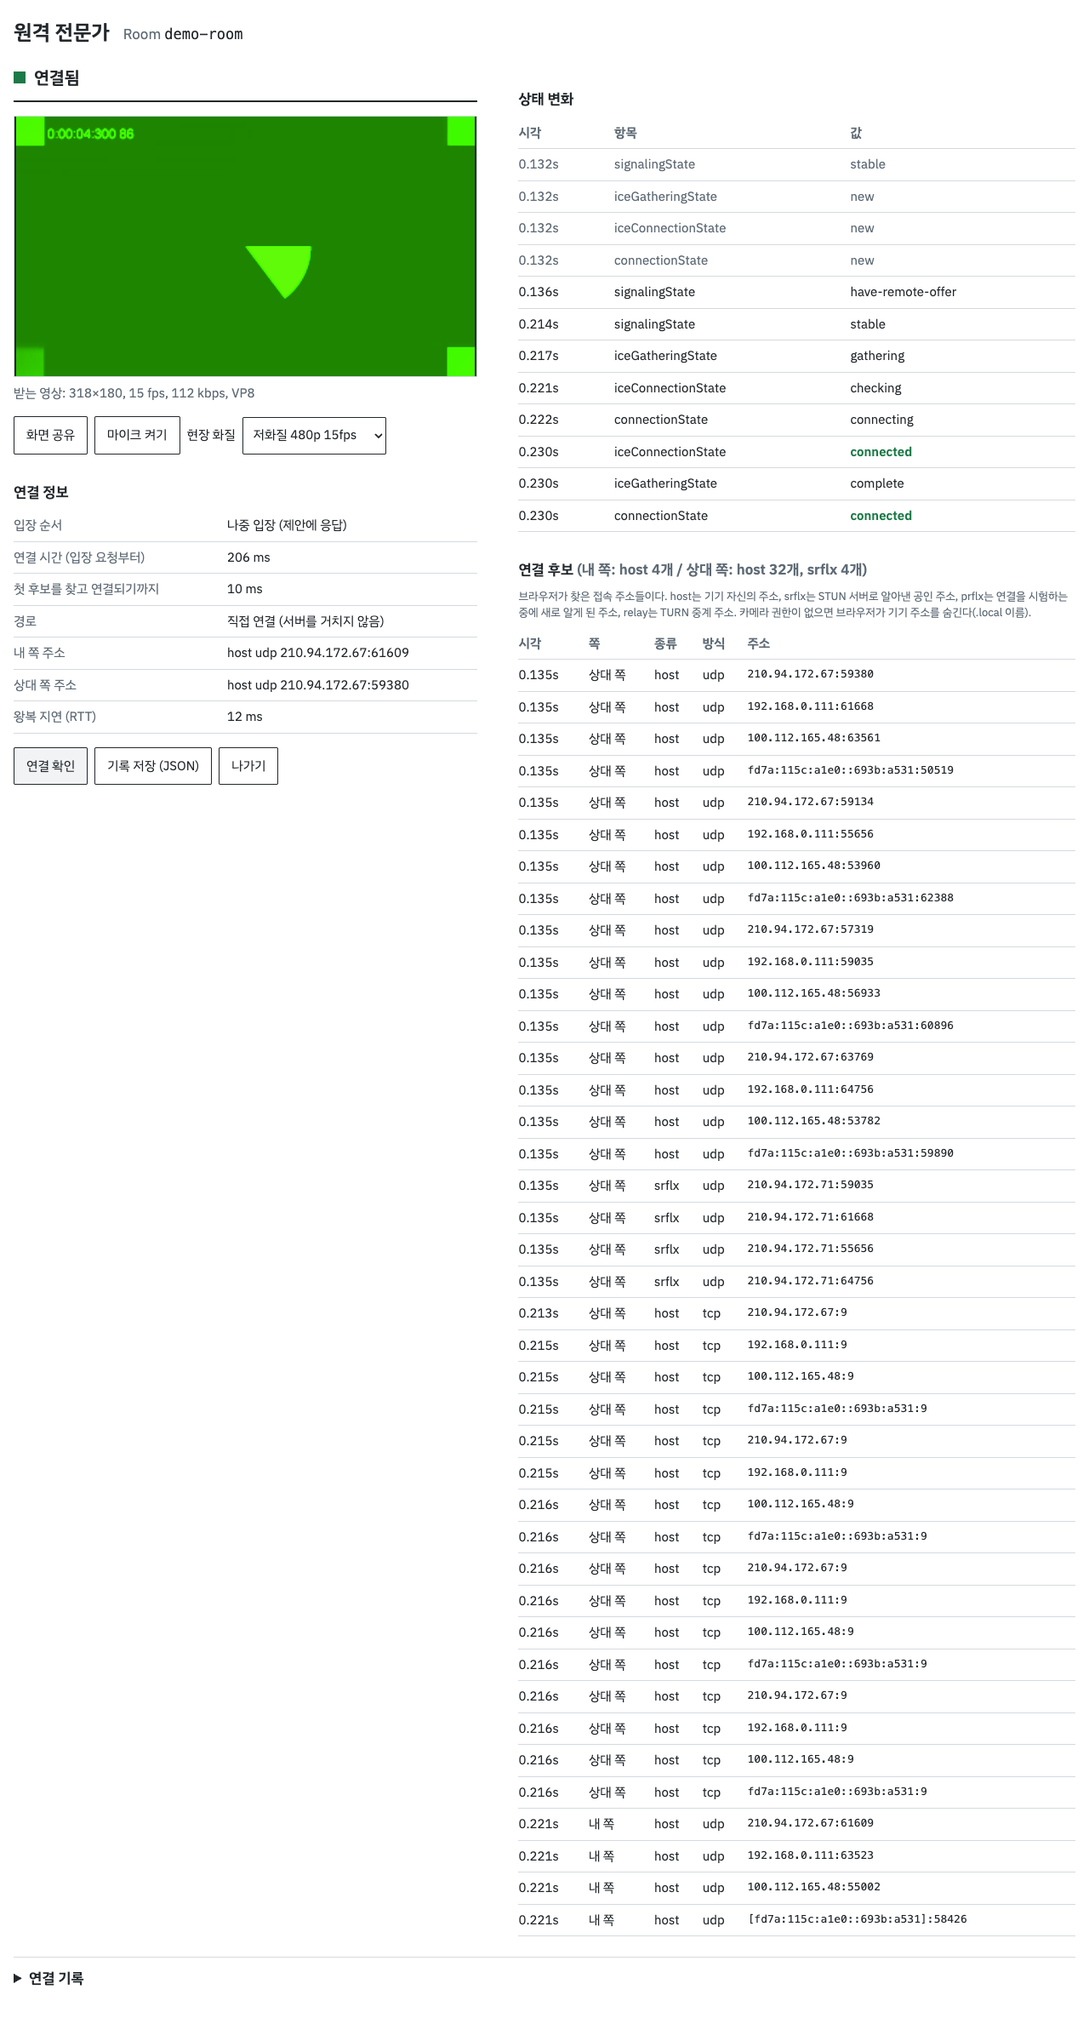
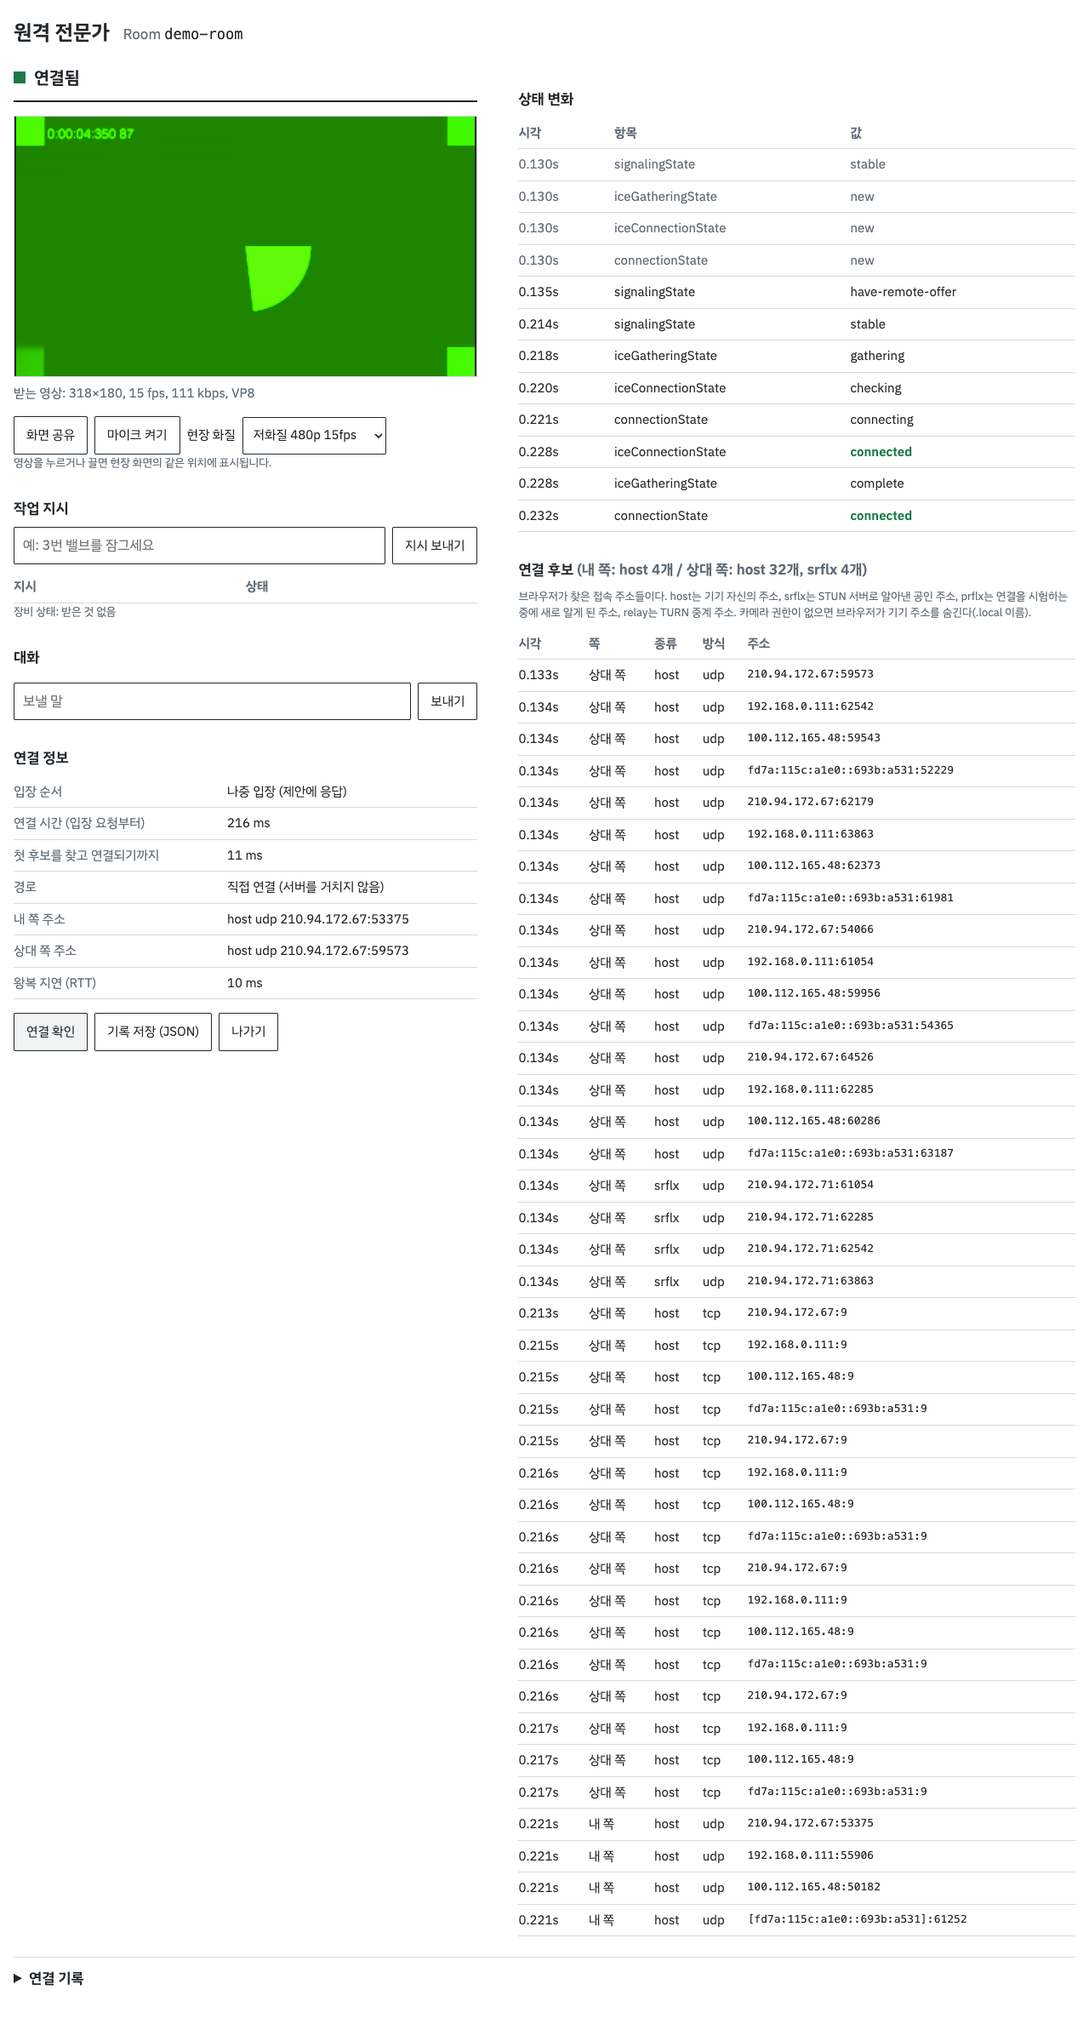
[feat] 대화, 작업 지시, 전문가 > 현장 포인터 표시 (#17)
- 대화: 양쪽 화면에 대화 목록과 입력칸. control 채널 `chat`
- 작업 지시: 전문가가 보내면 현장 '받은 지시'에 표시(확인 전 노란 띠). 현장이 '확인'을 누르면 전문가 표 상태가 '도착 (n ms), 확인 대기'에서 '현장 확인'으로 바뀜
- 포인터: 전문가가 받은 영상을 누르거나 끌면 0~1 좌표를 초당 최대 30번 pointer 채널로 보냄. 현장은 자기 카메라 화면 위 같은 위치에 노란 고리를 띄우고 3초 뒤 흐리게 함
- 좌표는 영상의 빈 띠(object-fit: contain)를 뺀 실제 영상 영역 기준. 전면 카메라 거울 미리보기는 x를 뒤집음
- 장비 상태: 현장 '장비 상태 보내기'(PUMP-03 더미 값) > 전문가 화면 한 줄 표시
- 화면 캡처 2장 추가(`docs/screens/field-instructions.png`, `expert-instructions.png`)

diff --git a/client/js/ui.js b/client/js/ui.js
@@ -32,6 +32,13 @@ export function createUi({ role, room }) {
     <h2>연결 후보 <span class="muted" id="candSummary"></span></h2>
     <p class="muted small">${TERMS}</p>
     <table id="cands"><thead><tr><th>시각</th><th>쪽</th><th>종류</th><th>방식</th><th>주소</th></tr></thead><tbody></tbody></table>`;
+  const chatBlock = `
+    <h2>대화</h2>
+    <ol class="chat" id="chat" aria-live="polite"></ol>
+    <form class="send" id="chatForm">
+      <input id="chatText" maxlength="500" autocomplete="off" aria-label="보낼 말" placeholder="보낼 말">
+      <button type="submit">보내기</button>
+    </form>`;
   const logBlock = `<details id="logBox"><summary>연결 기록</summary><ol id="log" class="log"></ol></details>`;
 
   // 영상 무대: 큰 화면 하나와 오른쪽 아래 작은 화면 하나
@@ -42,6 +49,7 @@ export function createUi({ role, room }) {
       <video id="vMain" playsinline autoplay muted></video>
       <video id="vPip" class="pip" playsinline autoplay muted hidden></video>
       <p class="stage-note" id="stageNote"></p>
+      <span class="pointer" id="ptr" hidden></span>
     </div>
     <audio id="remoteAudio" autoplay></audio>`;
 
@@ -56,7 +64,11 @@ export function createUi({ role, room }) {
         <button id="flip" disabled>전면 카메라로</button>
         <button id="mic" aria-pressed="false">마이크 켜기</button>
       </div>
+      <h2>받은 지시</h2>
+      <ol class="instr" id="instr"><li class="empty muted">아직 없습니다</li></ol>
+      ${chatBlock}
       <div class="actions">
+        <button id="device">장비 상태 보내기</button>
         <button id="ping">연결 확인</button>
         <button id="leave">나가기</button>
       </div>
@@ -85,6 +97,15 @@ export function createUi({ role, room }) {
               </select>
             </label>
           </div>
+          <p class="muted small">영상을 누르거나 끌면 현장 화면의 같은 위치에 표시됩니다.</p>
+          <h2>작업 지시</h2>
+          <form class="send" id="instrForm">
+            <input id="instrText" maxlength="500" autocomplete="off" aria-label="지시 내용" placeholder="예: 3번 밸브를 잠그세요">
+            <button type="submit">지시 보내기</button>
+          </form>
+          <table id="instrTable"><thead><tr><th>지시</th><th>상태</th></tr></thead><tbody></tbody></table>
+          <p class="muted small" id="device">장비 상태: 받은 것 없음</p>
+          ${chatBlock}
           ${resultTable}
           <div class="actions">
             <button id="ping">연결 확인</button>
@@ -215,6 +236,34 @@ export function createUi({ role, room }) {
   }
   renderStage();
 
+  // ---- 포인터 (#17) ----
+  // 영상은 object-fit: contain이라 위아래나 양옆에 빈 띠가 생길 수 있다. 실제 영상이 그려진 사각형을 구한다.
+  function contentRect(video) {
+    const r = video.getBoundingClientRect();
+    const vw = video.videoWidth || r.width;
+    const vh = video.videoHeight || r.height;
+    const scale = Math.min(r.width / vw, r.height / vh);
+    const w = vw * scale;
+    const h = vh * scale;
+    return { left: r.left + (r.width - w) / 2, top: r.top + (r.height - h) / 2, width: w, height: h };
+  }
+  let ptrTimer = 0;
+  function placePointer(x, y, video) {
+    const ptr = $('ptr');
+    if (!video || video.hidden || !video.videoWidth) return false;
+    const stageBox = $('stage').getBoundingClientRect();
+    const c = contentRect(video);
+    ptr.style.left = `${c.left - stageBox.left + x * c.width}px`;
+    ptr.style.top = `${c.top - stageBox.top + y * c.height}px`;
+    ptr.hidden = false;
+    ptr.classList.remove('fade');
+    clearTimeout(ptrTimer);
+    ptrTimer = setTimeout(() => ptr.classList.add('fade'), 3000); // 3초 동안 움직임이 없으면 흐려진다
+    return true;
+  }
+  const clock = () => new Date().toTimeString().slice(0, 8); // 14:03:18
+  const WHO = { me: '나', peer: role === 'field' ? '전문가' : '현장' };
+
   function pressed(id, on, label) {
     const b = $(id);
     if (!b) return;
@@ -296,6 +345,127 @@ export function createUi({ role, room }) {
     onMic(cb) { $('mic').onclick = cb; },
     onScreen(cb) { $('screen') && ($('screen').onclick = cb); },
     onProfile(cb) { $('profile') && ($('profile').onchange = () => cb($('profile').value)); },
+
+    // ---- 대화 (#17) ----
+    onChat(cb) {
+      $('chatForm').onsubmit = (e) => {
+        e.preventDefault();
+        if (cb($('chatText').value)) $('chatText').value = '';
+      };
+    },
+    addChat(who, text) {
+      const li = document.createElement('li');
+      li.className = who;
+      li.innerHTML = `<span class="who"></span><span class="x"></span><span class="t muted"></span>`;
+      li.querySelector('.who').textContent = WHO[who];
+      li.querySelector('.x').textContent = text;
+      li.querySelector('.t').textContent = clock();
+      $('chat').append(li);
+      while ($('chat').children.length > 50) $('chat').firstElementChild.remove();
+      li.scrollIntoView({ block: 'nearest' });
+      record.events.push({ t: Number(sec()), category: 'chat', text: `${WHO[who]}: ${text}` });
+    },
+
+    // ---- 작업 지시 (#17) ----
+    // 전문가: 보낸 지시와 확인 상태
+    onInstruct(cb) {
+      const form = $('instrForm');
+      if (!form) return;
+      form.onsubmit = (e) => {
+        e.preventDefault();
+        if (cb($('instrText').value)) $('instrText').value = '';
+      };
+    },
+    showInstruction(item) {
+      const body = $('instrTable')?.tBodies[0];
+      if (!body) return;
+      let tr = [...body.rows].find((r) => r.dataset.id === item.id);
+      if (!tr) {
+        tr = body.insertRow(0);
+        tr.dataset.id = item.id;
+        tr.insertCell().textContent = item.text;
+        tr.insertCell();
+      }
+      const state = item.done
+        ? '현장 확인'
+        : item.receivedMs != null
+          ? `도착 (${item.receivedMs} ms), 확인 대기`
+          : item.sent
+            ? '보냄, 도착 대기'
+            : '연결되면 보냄';
+      tr.cells[1].textContent = state;
+      tr.className = item.done ? 'state-connected' : item.receivedMs != null ? '' : 'state-disconnected';
+      log('data', `지시 "${item.text}": ${state}`);
+    },
+    // 현장: 받은 지시와 확인 버튼
+    addInstruction({ id, text }, onConfirm) {
+      $('instr').querySelector('.empty')?.remove();
+      const li = document.createElement('li');
+      li.className = 'todo';
+      li.dataset.id = id;
+      li.innerHTML = `<span class="x"></span><span class="t muted"></span><button aria-pressed="false">확인</button>`;
+      li.querySelector('.x').textContent = text;
+      li.querySelector('.t').textContent = clock();
+      const btn = li.querySelector('button');
+      btn.onclick = () => {
+        if (li.classList.contains('todo') && onConfirm(id)) {
+          li.classList.remove('todo');
+          btn.setAttribute('aria-pressed', 'true');
+          btn.textContent = '확인함';
+          btn.disabled = true;
+        }
+      };
+      $('instr').prepend(li);
+      navigator.vibrate?.(200); // 지원하는 폰(안드로이드)만 진동
+      log('data', `받은 지시: ${text}`);
+    },
+
+    // ---- 장비 상태 (#17, 더미) ----
+    onDeviceStatus(cb) {
+      if (role === 'field') $('device').onclick = cb;
+    },
+    showDevice(s) {
+      const parts = [s.equipmentId, s.state, s.temperature != null ? `${s.temperature}°C` : null, s.errorCode ? `오류 ${s.errorCode}` : null];
+      $('device').textContent = `장비 상태 (${clock()}): ${parts.filter(Boolean).join(', ')}`;
+      $('device').className = s.errorCode ? 'small warn-text' : 'small muted';
+    },
+
+    // ---- 포인터 (#17) ----
+    // 전문가: 받은 영상을 누르거나 끌면 0~1 좌표로 알린다 (초당 최대 30번)
+    onPointerInput(cb) {
+      if (role !== 'expert') return;
+      const v = $('vMain');
+      let down = false;
+      let last = 0;
+      const emit = (e, isDown, force) => {
+        if (v.hidden || !v.videoWidth) return;
+        const c = contentRect(v);
+        const x = (e.clientX - c.left) / c.width;
+        const y = (e.clientY - c.top) / c.height;
+        if (x < 0 || x > 1 || y < 0 || y > 1) return;
+        const now = performance.now();
+        if (!force && now - last < 33) return;
+        last = now;
+        placePointer(x, y, v); // 내 화면에도 표시
+        cb({ x: +x.toFixed(4), y: +y.toFixed(4), down: isDown });
+      };
+      v.addEventListener('pointerdown', (e) => {
+        down = true;
+        v.setPointerCapture(e.pointerId);
+        emit(e, true, true);
+      });
+      v.addEventListener('pointermove', (e) => down && emit(e, true, false));
+      v.addEventListener('pointerup', (e) => {
+        down = false;
+        emit(e, false, true);
+      });
+    },
+    // 현장: 내 카메라 영상 위에 표시. 전면 카메라 미리보기는 거울처럼 뒤집혀 있으므로 x도 뒤집는다
+    showPointer({ x, y }) {
+      const v = [$('vMain'), $('vPip')].find((el) => el.srcObject?.getTracks()[0] === local.camera && !el.hidden);
+      if (!v) return false;
+      return placePointer(local.facing === 'user' && v === $('vMain') ? 1 - x : x, y, v);
+    },
 
     // kind: ok | error | wait | busy | warn
     setStatus(kind, text) {

diff --git a/client/css/app.css b/client/css/app.css
@@ -169,3 +169,41 @@ button[aria-pressed="true"]:hover { background: var(--steel); }
 button:disabled { opacity: 0.45; cursor: not-allowed; }
 .select { display: inline-flex; align-items: center; gap: 8px; font-size: 15px; }
 .select select { font: inherit; font-size: 15px; min-height: 44px; padding: 0 8px; border: 1.5px solid var(--ink); border-radius: 2px; background: var(--paper); color: var(--ink); }
+
+/* 포인터 (#17) - 전문가가 가리킨 곳. 어떤 영상 위에서도 보이게 노랑 고리 + 먹 테두리 */
+.pointer {
+  position: absolute;
+  width: 36px;
+  height: 36px;
+  margin: -18px 0 0 -18px;
+  border-radius: 50%;
+  border: 5px solid var(--caution);
+  box-shadow: 0 0 0 2px var(--ink), inset 0 0 0 2px var(--ink);
+  pointer-events: none;
+  transition: opacity 0.4s ease;
+}
+.pointer[hidden] { display: none; }
+.pointer.fade { opacity: 0; }
+@media (prefers-reduced-motion: reduce) { .pointer { transition: none; } }
+body.expert #vMain { cursor: crosshair; touch-action: none; }
+
+/* 받은 지시 (현장) - 작업 지시서처럼 칸 선. 확인 전에는 왼쪽에 노랑 띠(주의) */
+.instr { list-style: none; padding: 0; margin: 0; }
+.instr li { display: grid; grid-template-columns: minmax(0, 1fr) auto; gap: 2px 12px; align-items: center; padding: 10px 0 10px 12px; border-bottom: 1px solid var(--rule); border-left: 6px solid transparent; }
+.instr li.todo { border-left-color: var(--caution); }
+.instr li .x { font-weight: 600; font-size: 20px; }
+.instr li .t { grid-row: 2; font-size: 13px; }
+.instr li button { grid-row: 1 / span 2; grid-column: 2; }
+.instr li.empty { display: block; border-left: 0; padding-left: 0; }
+
+/* 대화 */
+.chat { list-style: none; padding: 0; margin: 0; max-height: 30vh; overflow-y: auto; }
+.chat li { display: grid; grid-template-columns: 48px minmax(0, 1fr) auto; gap: 8px; padding: 6px 0; border-bottom: 1px solid var(--rule); }
+.chat .who { color: var(--steel); font-size: 13px; padding-top: 2px; }
+.chat .x { word-break: break-word; }
+.chat .t { font-size: 13px; }
+.send { display: flex; gap: 8px; margin-top: 8px; }
+.send input { flex: 1; min-width: 0; font: inherit; font-size: 16px; min-height: 44px; padding: 0 10px; border: 1.5px solid var(--ink); border-radius: 2px; background: var(--paper); color: var(--ink); }
+.send input:focus-visible { outline: 3px solid var(--caution); outline-offset: 1px; }
+#instrTable { margin-top: 8px; }
+.warn-text { color: var(--caution-ink); font-weight: 600; }

diff --git a/client/js/app.js b/client/js/app.js
@@ -132,6 +132,23 @@ export async function startApp({ role }) {
     if (slot !== 'audio') ui.log('media', `상대가 ${SLOT_NAME[slot] ?? slot}을(를) ${on ? '켰다' : '껐다'}`);
   });
   link.on('profile', ({ profile: p }) => role === 'field' && applyProfile(p));
+  // ---- 대화, 작업 지시, 장비 상태, 포인터 (#17) ----
+  const notOpen = () => ui.log('data', '데이터 통로가 아직 열리지 않아 보내지 못했습니다');
+  ui.onChat((text) => {
+    const sent = link.chat(text);
+    if (sent) ui.addChat('me', sent);
+    else if (text.trim()) notOpen();
+    return !!sent;
+  });
+  link.on('chat', ({ text }) => ui.addChat('peer', text));
+  ui.onInstruct((text) => !!link.instruct(text)); // 연결 전이면 대기열에 넣고 연결되면 보낸다
+  link.on('instruction-status', (item) => ui.showInstruction(item));
+  link.on('instruction', (m) => ui.addInstruction(m, (id) => link.confirm(id)));
+  ui.onDeviceStatus(() => (link.send('device-status', dummyDevice()) ? ui.log('data', '장비 상태 보냄') : notOpen()));
+  link.on('device-status', (s) => ui.showDevice(s));
+  ui.onPointerInput((p) => link.send('pointer', p));
+  link.on('pointer', (p) => ui.showPointer(p));
+
   link.on('invalid', ({ channel, error }) => ui.log('error', `${channel} 채널: 잘못된 메시지 (${error})`));
 
   async function onConnected(s) {
@@ -194,4 +211,15 @@ export async function startApp({ role }) {
   } catch (err) {
     ui.setStatus('error', err.message);
   }
+}
+
+// PoC용 가짜 장비 상태 (실제 설비 연동은 범위 밖)
+function dummyDevice() {
+  const warn = Math.random() < 0.3;
+  return {
+    equipmentId: 'PUMP-03',
+    state: warn ? '경고' : '정상',
+    errorCode: warn ? 'E-214' : null,
+    temperature: Math.round((warn ? 82 : 64) + Math.random() * 6),
+  };
 }

diff --git a/weekly/week2/report.md b/weekly/week2/report.md
@@ -14,9 +14,9 @@
 
 | 구분 | 이슈 |
 |---|---|
-| 완료 | #66 시그널링 서버 aiohttp 전환 · #16 DataChannel 프로토콜 |
+| 완료 | #66 시그널링 서버 aiohttp 전환 · #16 DataChannel 프로토콜 · #17 대화·지시·포인터 |
 | 진행 중 | #62 전문가 화면 공유 (실제 폰 표시 확인 남음) |
-| 남음 | #37 · #14 · #17 · #18 · #19 · #20 |
+| 남음 | #37 · #14 · #18 · #19 · #20 |
 
 ## 작업 기록
 
@@ -24,9 +24,11 @@
 |---|---|---|---|
 | 11/09 | #66 | 멘토 권고로 시그널링 서버를 Node.js(`ws`)에서 Python aiohttp로 전환. `server/app.py`(정적 파일, `/healthz`, `/api/info`, HTTPS 인증서), `server/signaling.py`(Room, 중계, 오류 코드, 30초 heartbeat, 64KB 제한). 단위 시험을 Python unittest로 옮기고 정적 파일 시험 3개 추가. E2E·화면 캡처 스크립트가 Python 서버를 띄우도록 변경 | 단위 시험 8/8 통과(`npm test`). 브라우저 코드 변경 없이 Chrome E2E 20/20 통과(`npm run e2e`). 경로 조작(`/%2e%2e/`) 403, LAN 주소 순서가 Node 때와 같음(Wi-Fi 먼저). 기술 결정 TD-02·TD-03에 번복 이력, 서버 구성도·아키텍처 그림 다시 그림 |
 | 11/16 | #16 | DataChannel 메시지 프로토콜 `client/js/datachannel.js`: 봉투 `{type, seq, ts, payload}`, 종류 9개(chat, instruction, ack, device-status, media, profile, ping, pong, pointer), 받을 때 형식 검사. 작업 지시는 자동 도착 확인(`received`)과 작업자 확인(`done`) 2단계. 연결이 끊긴 동안의 지시는 재연결 후 다시 보내고 `id`로 중복을 거름. 포인터는 늦게 온 번호를 버림. 기존 화면 제어 메시지(media, profile, ping)도 같은 봉투로 옮김 | E2E 24/24 통과(새 항목 4개: 형식 검사 7가지, 지시 도착 확인 왕복 1 ms, 포인터 5개 도착, 재연결 후 재전송 1회). 스펙: 03 §6, TD-09 |
+| 11/16 | #17 | 대화(양방향, 50개 유지), 작업 지시(전문가 입력 > 현장 목록, 확인 전은 노란 띠, '확인' 버튼 > 전문가 표에 '현장 확인'), 포인터(전문가가 영상을 누르거나 끌면 초당 최대 30번 0~1 좌표 전송, 현장은 내 카메라 영상 위 같은 위치에 노란 고리, 전면 카메라 거울 화면은 x를 뒤집음, 3초 뒤 흐려짐), 장비 상태 더미(PUMP-03). 영상 빈 띠(object-fit: contain)를 빼고 실제 영상 영역 기준으로 좌표 계산 | E2E 28/28 통과(새 항목 4개). 포인터: 전문가 (0.25, 0.75) > 현장 (0.252, 0.753). 화면: `docs/screens/field-instructions.png`, `expert-instructions.png`. 실제 폰 확인 남음 |
 
 ## 발표자료에 넣을 것
 
 - 서버를 Python aiohttp로 바꾼 이유(멘토 권고, 과목 언어 통일)와 바꾸지 않은 것(메시지 형식, P2P 구조). 근거: 단위 시험 8개, E2E 20항목
 - DataChannel 두 채널의 차이(순서·재전송)와 작업 지시 확인 흐름 그림 (03 §6)
+- 현장·전문가 화면 캡처(포인터, 지시 확인 상태): `docs/screens/field-instructions.png`, `expert-instructions.png`. 가능하면 실제 폰 캡처로 바꾼다
 - 기술 스택 장의 "Node.js + ws" 줄을 "Python aiohttp"로 고친다

diff --git a/docs/screens/README.md b/docs/screens/README.md
@@ -9,6 +9,8 @@
 | `field-connected.png` | 현장 화면, 연결됨 (초록 점검 태그) |
 | `expert-connected.png` | 전문가 화면, 연결 정보와 상태 변화, 연결 후보, 연결 기록 |
 | `expert-video.png` | 전문가 화면, 현장 카메라 수신과 받는 영상 품질(해상도, fps, kbps, 코덱). 카메라는 Chrome 가짜 장치(초록 시험 패턴) |
+| `field-instructions.png` | 현장 화면, 전문가 포인터(노란 고리)가 내 카메라 위에 표시되고, 받은 지시 목록(확인 전은 왼쪽 노란 띠, 확인한 것은 '확인함'), 대화 |
+| `expert-instructions.png` | 전문가 화면, 영상을 눌러 가리킨 위치, 작업 지시 표(현장 확인 / 도착·확인 대기), 장비 상태, 대화 |
 | `field-sharing.png` | 현장 화면, 전문가 화면 공유가 크게, 내 카메라는 오른쪽 아래 작은 화면. 공유 화면도 가짜 장치 |
 
 다시 캡처: `cd server && node e2e/screens.mjs ../docs/screens`

diff --git a/docs/project-status.md b/docs/project-status.md
@@ -15,6 +15,7 @@
 
 - [x] #66 시그널링 서버를 Python aiohttp로 전환 (멘토 권고): `server/app.py`, `server/signaling.py`. 메시지 형식·브라우저 코드 그대로, 단위 시험 8개·E2E 20항목 통과. 1주차 발표자료(제출 완료)는 고치지 않고 2주차 발표자료부터 반영
 - [x] #16 DataChannel 메시지 프로토콜: 봉투 `{type, seq, ts, payload}`, 종류 9개, 작업 지시 2단계 확인(ack), 재연결 후 미확인 지시 재전송, 늦게 온 포인터 버리기 (`client/js/datachannel.js`, 03 §6). E2E 24항목 통과
+- [x] #17 대화(양방향), 작업 지시(현장 확인 버튼, 전문가 표에 도착·확인 상태), 포인터(전문가가 영상을 누르면 현장 카메라 화면의 같은 위치에 노란 고리, 3초 뒤 흐려짐), 장비 상태(더미). E2E 28항목 통과, 위치 오차 0.003. 실제 폰 확인 남음
 
 ## 다음 작업 (1주차)
 
